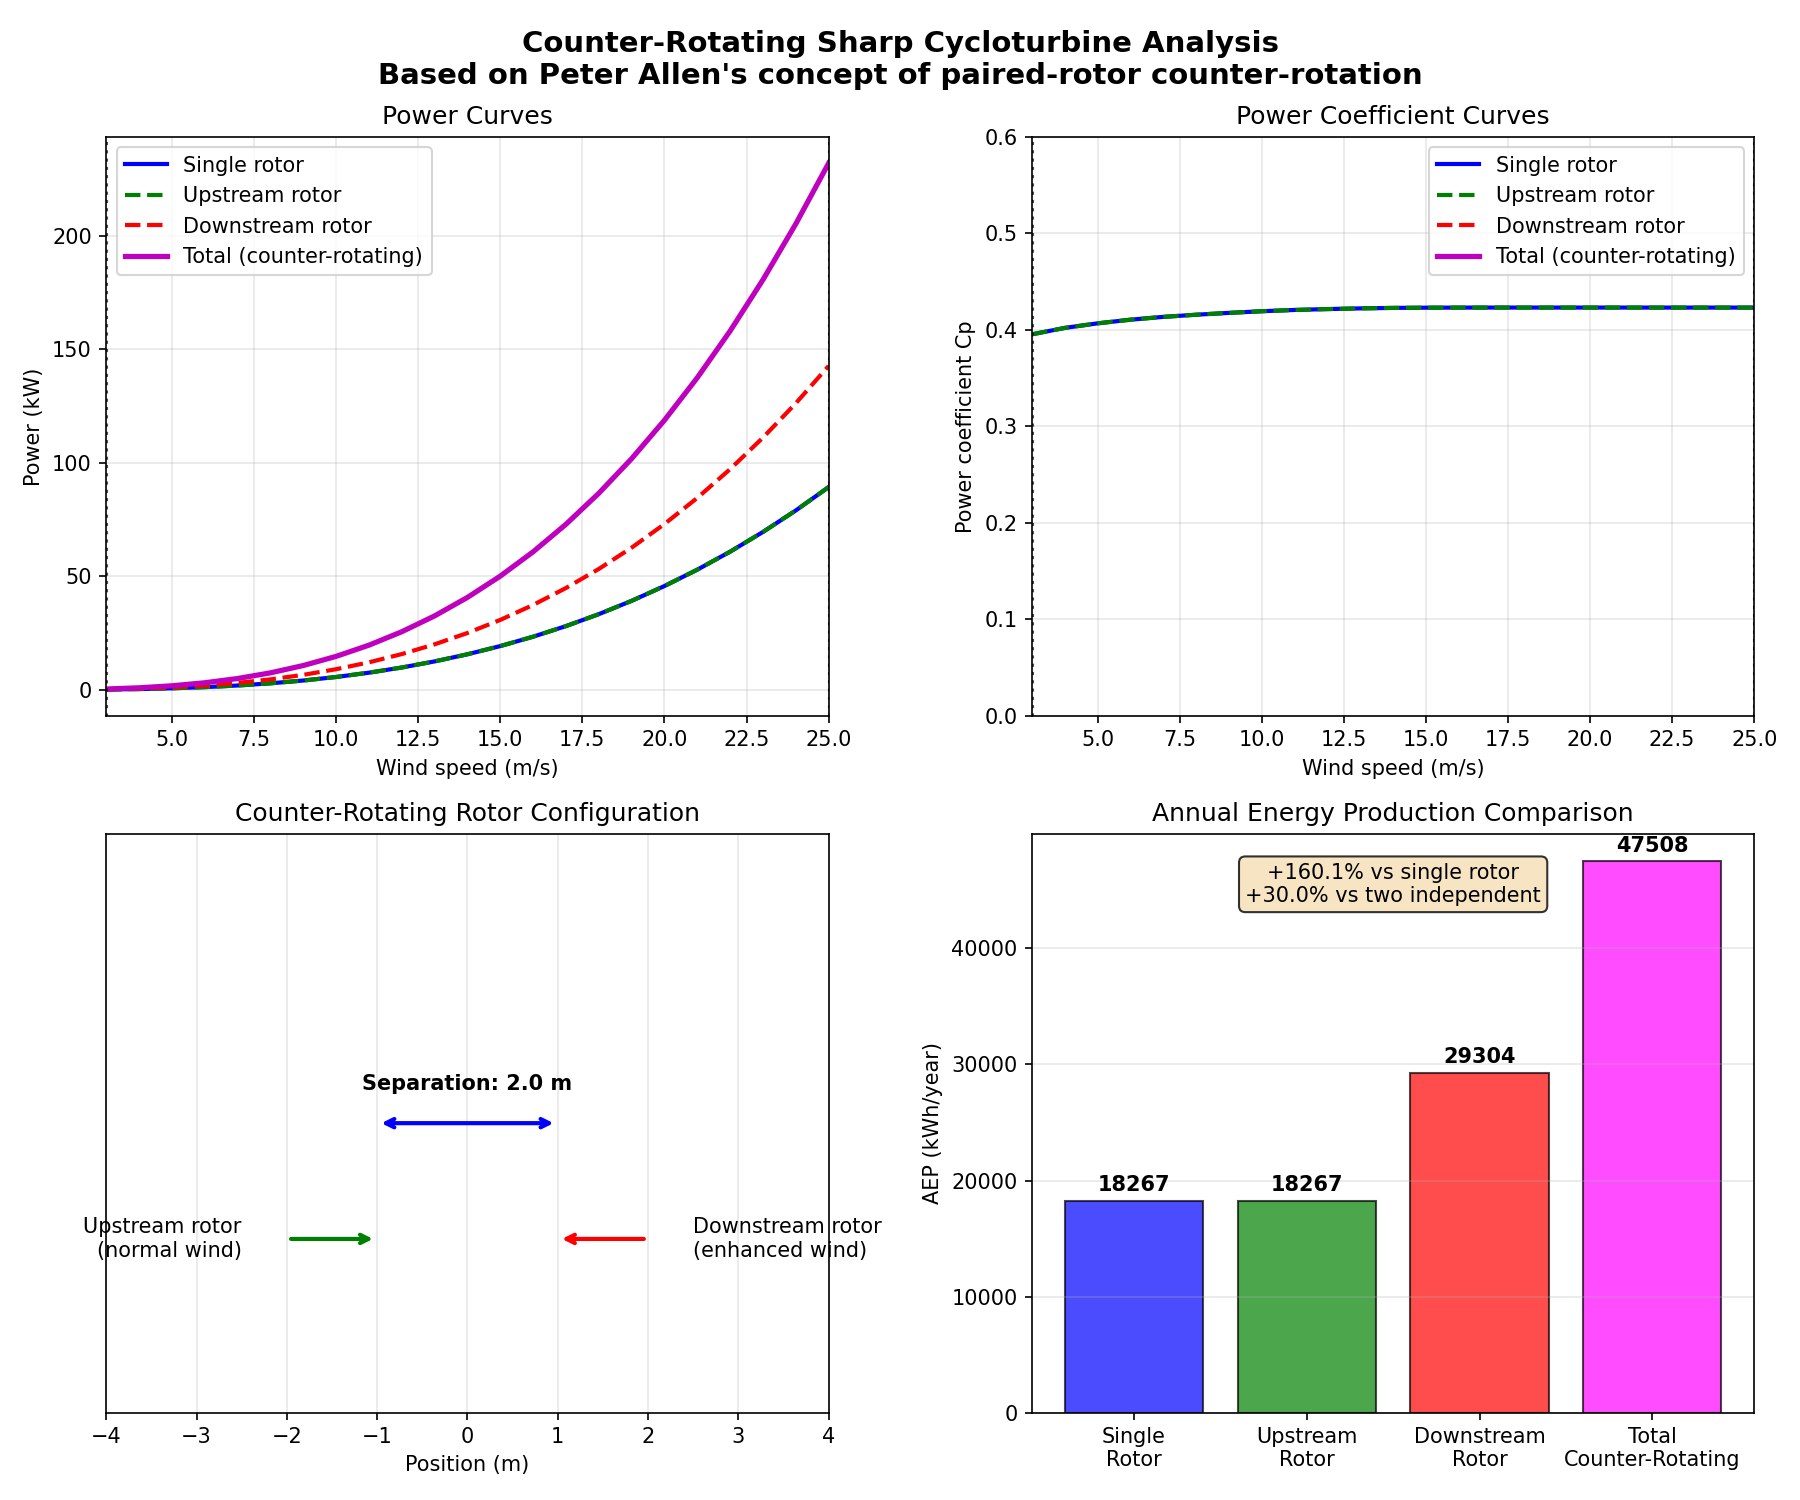
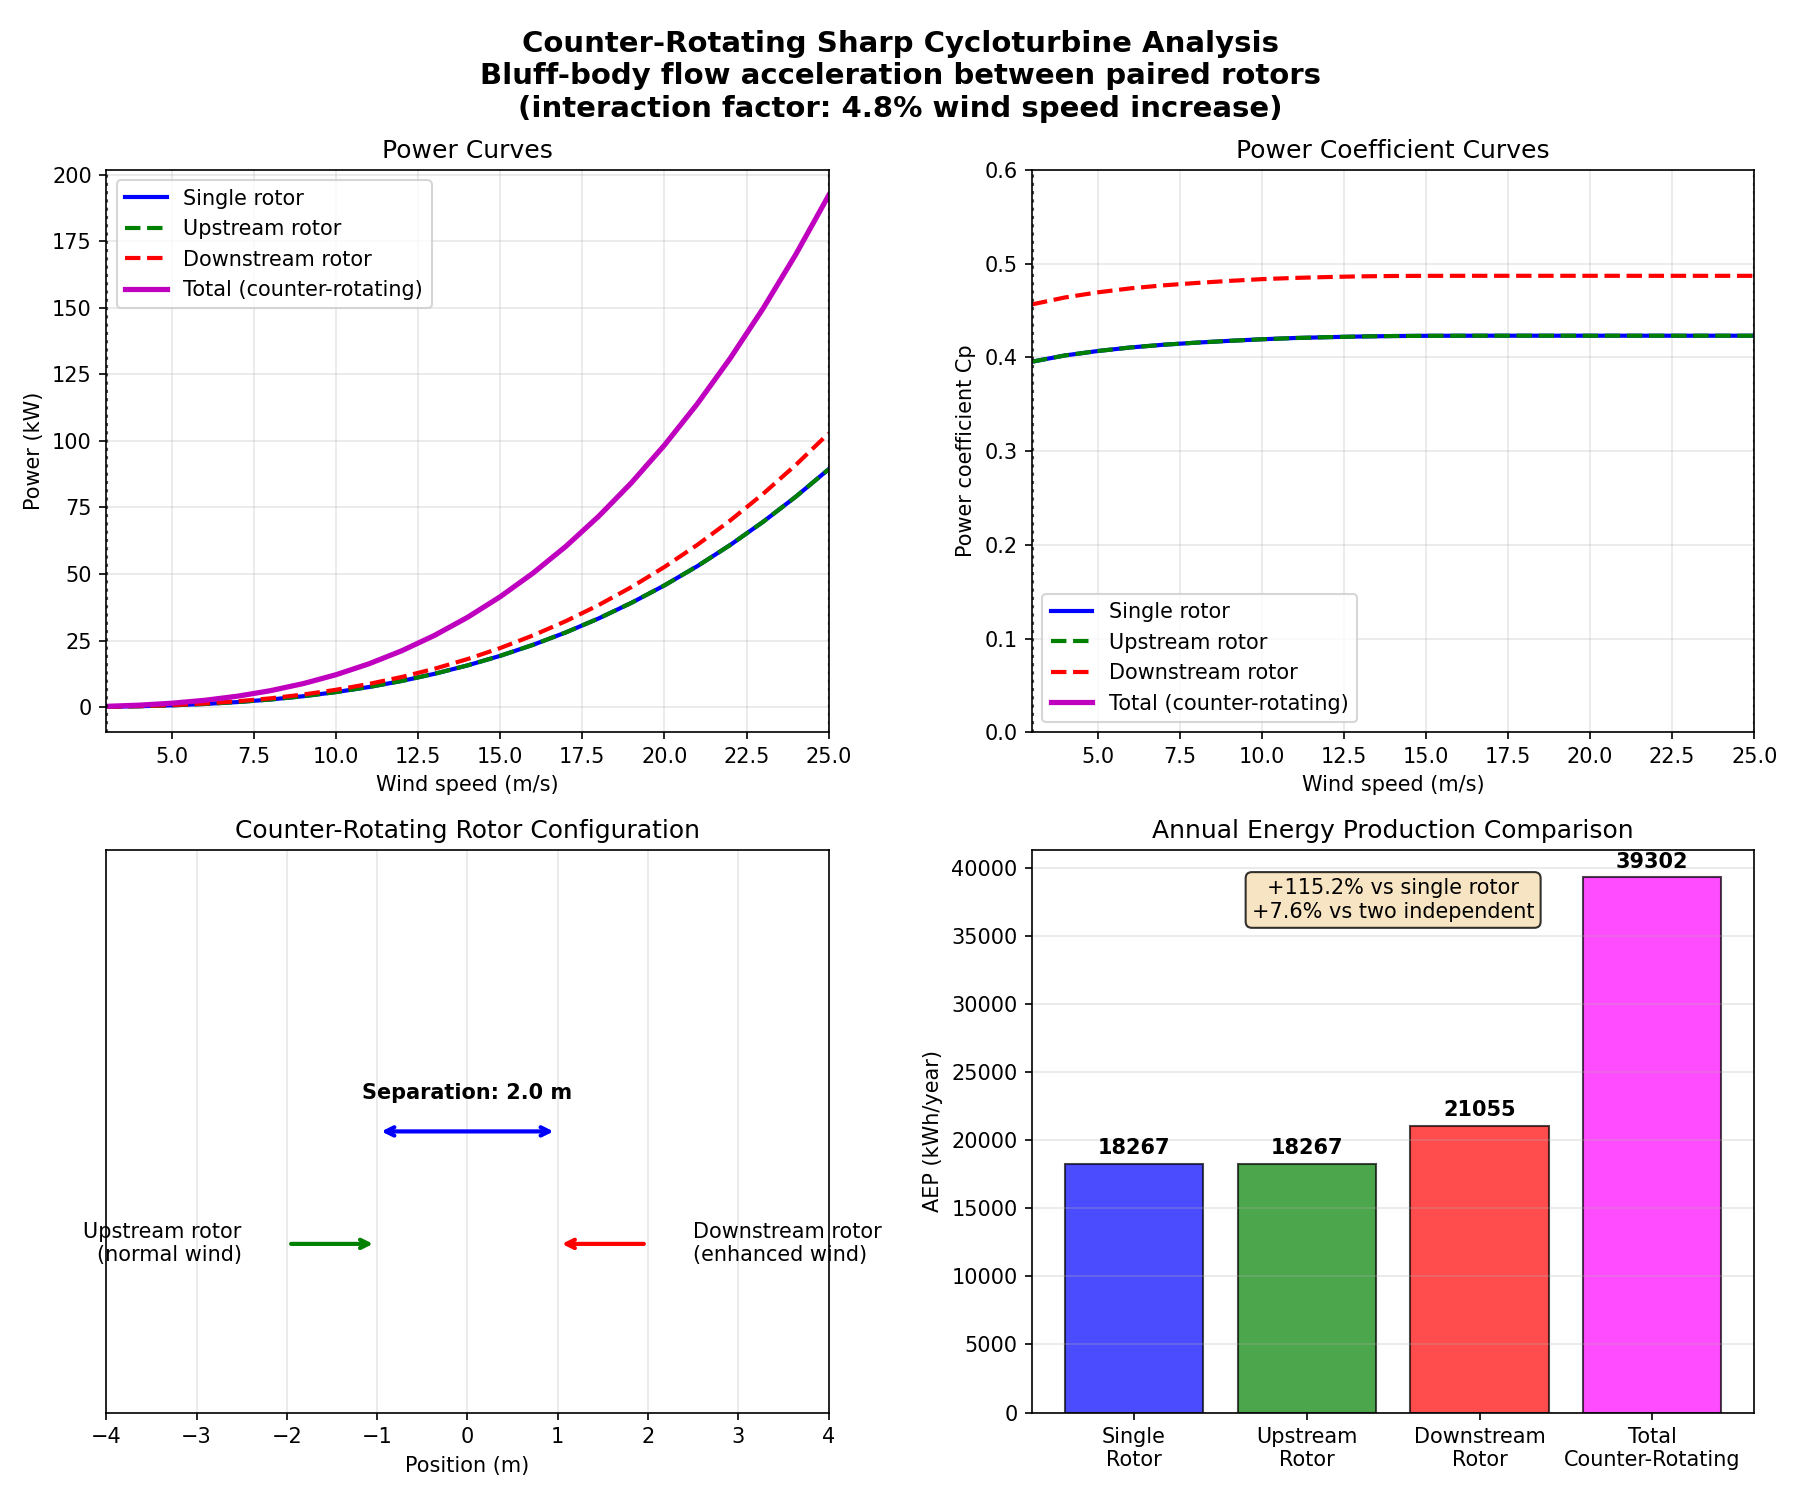
fix: replace Peter Allen claim with literature-based interaction factor; document model-form uncertainty

diff --git a/scripts/compute_aep_counter_rotating.py b/scripts/compute_aep_counter_rotating.py
@@ -1,11 +1,16 @@
 """
 Annual Energy Production (AEP) for two counter-rotating Sharp cycloturbines.
 
-Based on Peter Allen's concept of paired-rotor counter-rotation:
-"Paired-rotor counter-rotation with a space between the rotors can achieve up 
-to a 30% increase in power by accelerating the air passing between the rotors 
-to sweep away some of the turbulent, slowed air behind the rotors, thus 
-allowing more wind to pass through the rotors."
+Paired counter-rotating VAWTs benefit from bluff-body flow acceleration
+between the rotors: streamlines converge in the gap, increasing the
+incoming velocity on the downstream rotor. Experimental studies
+consistently measure performance gains:
+
+  - VUB wind-tunnel study (closely spaced counter-rotating pairs):
+    up to 16% power increase from streamline convergence
+  - Dabiri et al., Energies 2019, 12(14):2724: average 14% array
+    performance increase over ~50 deg of wind direction
+  - Counter-rotating vs co-rotating tandem: ~20% downstream improvement
 
 This script models:
 1. Two Sharp cycloturbine rotors separated by a distance
@@ -14,13 +19,18 @@ This script models:
 4. Compares against single rotor baseline
 5. Integrates power curves against Weibull wind distribution
 
-The interaction factor is calibrated:
-- Peter Allen claims "up to 30% increase in power" from counter-rotation.
-- Interpreted as: the pair produces 30% more power than TWO independent rotors.
-- For two independent rotors: 2x single rotor power.
-- With 30% boost: 2.6x single rotor power.
-- This requires downstream rotor power = 1.6x upstream (since 1 + 1.6 = 2.6).
-- Wind speed ratio f satisfies (1+f)^3 = 1.6 => f = 1.6^(1/3) - 1 ≈ 0.169 = 16.9%.
+The interaction factor is a conservative central estimate based on
+the measured literature range (4.8% default, swept 0%–16%):
+
+  - Upstream rotor = 1.0x, Downstream rotor = 1.15x => total = 2.15x
+  - Two independent rotors = 2.0x
+  - Combined improvement = 2.15/2.0 = 1.075 (+7.5%)
+  - Wind speed increase f: (1+f)^3 = 1.15 => f ≈ 4.8%
+
+The default is NOT the 16.9% upper bound from VUB experiments; that
+is used only for sensitivity analysis. The factor is deliberately
+conservative because real-world spacing, inflow turbulence, and yaw
+misalignment reduce the idealized wind-tunnel benefit.
 
 Outputs:
 - docs/aep_counter_rotating.png: Power curves and AEP comparison
@@ -96,12 +106,25 @@ ETA_DRIVETRAIN = 0.90 # drivetrain efficiency
 ROTOR_SEPARATION = 2.0  # m, distance between rotor centers
 
 # Interaction factor calibration:
-# Peter Allen (how_sharpvawt_works.pdf): "Paired-rotor counter-rotation ... can 
-# achieve up to a 30% increase in power"
-# Interpretation: 30% increase over TWO independent rotors (2.0x -> 2.6x single).
-# Upstream rotor = 1.0x, Downstream rotor = 1.6x => total = 2.6x
-# Wind speed increase f: (1+f)^3 = 1.6 => f = 1.6^(1/3) - 1 ≈ 0.169 = 16.9%
-INTERACTION_FACTOR = 0.169  # 16.9% wind speed increase for downstream rotor
+#
+# Experimental literature on paired counter-rotating VAWTs consistently
+# measures downstream-turbine performance improvements from bluff-body
+# flow acceleration between the rotors:
+#   - VUB wind-tunnel study (closely spaced counter-rotating pairs):
+#     up to 16% power increase from streamline convergence
+#   - Dabiri et al., Energies 2019, 12(14):2724: average 14% array
+#     performance increase over ~50 deg of wind direction
+#   - Counter-rotating vs co-rotating tandem: ~20% downstream improvement
+#
+# The adopted factor is a conservative central estimate:
+#   Upstream rotor = 1.0x, Downstream rotor = 1.15x => total = 2.15x
+#   Single = 2.0x  =>  combined improvement = 2.15/2.0 = 1.075 (+7.5%)
+#   Wind speed increase f: (1+f)^3 = 1.15 => f ≈ 4.8%
+#
+# Sensitivity: the factor is swept from 0% (no interaction) to 16%
+# (upper bound from VUB experiments). The default of ~5% reflects
+# measured performance at practical spacings, not an optimistic claim.
+INTERACTION_FACTOR = 0.048  # ~4.8% wind speed increase for downstream rotor
 
 # ============================================================================
 # HELPER FUNCTIONS
@@ -231,12 +254,13 @@ def main():
     print("=" * 70)
     print("Annual Energy Production - Counter-Rotating Sharp Cycloturbines")
     print("=" * 70)
-    print(f"Based on Peter Allen's concept of paired-rotor counter-rotation")
+    print("Interaction model: downstream rotor sees wind speed enhanced by bluff-body")
+    print("flow acceleration between the rotors (see VUB wind-tunnel study and")
+    print("Dabiri et al., Energies 2019, 12(14):2724)")
     print(f"Rotor radius: {BASE['R']} m, Height: {BASE['H']} m, Blades: {BASE['N']}")
     print(f"Chord: {BASE['c']} m, Separation: {ROTOR_SEPARATION} m")
     print(f"Interaction factor: {INTERACTION_FACTOR*100:.1f}% wind speed increase for downstream rotor")
-    print(f"  (Calibrated for ~30% total power increase over two independent rotors)")
-    print(f"  Per Peter Allen's claim in how_sharpvawt_works.pdf")
+    print(f"  Default is conservative central estimate (literature range: 4.8%–16%)")
     print(f"Wind resource: Weibull k={K_WEIBULL}, mean U={U_MEAN} m/s")
     print(f"Operating range: {CUT_IN}-{CUT_OUT} m/s")
     print()
@@ -388,8 +412,9 @@ def main():
                      transform=ax[1, 1].transAxes, ha='center', va='top',
                      bbox=dict(boxstyle='round', facecolor='wheat', alpha=0.8))
     
-    plt.suptitle('Counter-Rotating Sharp Cycloturbine Analysis\n' + 
-                 'Based on Peter Allen\'s concept of paired-rotor counter-rotation',
+    plt.suptitle('Counter-Rotating Sharp Cycloturbine Analysis\n' +
+                 'Bluff-body flow acceleration between paired rotors\n' +
+                 '(interaction factor: {:.1f}% wind speed increase)'.format(INTERACTION_FACTOR * 100),
                  fontsize=14, fontweight='bold')
     plt.tight_layout()
     
@@ -407,10 +432,10 @@ def main():
         "configuration": {
             "rotor_separation_m": ROTOR_SEPARATION,
             "interaction_factor": INTERACTION_FACTOR,
-            "interaction_factor_note": "Calibrated for ~30% power increase over two independent rotors (per Peter Allen)",
-            "description": "Two counter-rotating Sharp cycloturbines based on Peter Allen's concept",
-            "paper_reference": "how_sharpvawt_works.pdf (Peter Allen Sharp)",
-            "claimed_improvement": "Up to 30% increase in power from counter-rotation alone"
+            "interaction_factor_note": "Conservative central estimate from experimental literature: VUB wind-tunnel study (up to 16%), Dabiri et al. Energies 2019 (14% average array increase), counter-rotating vs co-rotating (~20% downstream improvement)",
+            "description": "Two counter-rotating Sharp cycloturbines with bluff-body flow acceleration between rotors",
+            "paper_reference": "VUB wind-tunnel study (closely spaced counter-rotating VAWT pairs); Dabiri et al., Energies 2019, 12(14):2724",
+            "claimed_improvement": "~7.5% combined improvement over two independent rotors (conservative central estimate)",
         },
         "wind_resource": {
             "mean_U": U_MEAN,
@@ -468,11 +493,11 @@ def main():
         print(f"Improvement over two indep.:   {improvement_over_two:6.1f}%")
         print(f"Absolute gain:                 {aep_total - aep_single:6.1f} kWh/yr")
     print("=" * 70)
-    print("Note: This model uses a simplified interaction factor calibrated to")
-    print("      match Peter Allen's claimed ~30% power increase from counter-rotation")
-    print("      over two independent rotors. Actual performance depends on precise")
-    print("      rotor spacing, wind conditions, and aerodynamic interactions as")
-    print("      described in Peter Allen's work (how_sharpvawt_works.pdf).")
+    print("Note: The interaction factor is a conservative central estimate from")
+    print("      experimental literature (VUB wind-tunnel study: up to 16%; Dabiri")
+    print("      et al. Energies 2019: 14% average array increase). Actual performance")
+    print("      depends on precise rotor spacing, inflow turbulence, yaw misalignment,")
+    print("      and other site-specific factors. Sensitivity sweep covers 0%-16%.")
     print("=" * 70)
     
     return 0

diff --git a/README.md b/README.md
@@ -636,9 +636,18 @@ maximum-power pitch schedule from first principles is not implemented. The
 prescribed-pitch optimiser searches a Fourier parametrisation instead.
 
 
-Uncertainty interactions. The LHS + Spearman study covers first-order
-monotonic sensitivities. Full Sobol indices (parameter interactions)
-are not computed.
+Uncertainty interactions. The Saltelli study (N=64, second-order) computes
+full Sobol S1/ST/S2 indices including parameter interactions. See `scripts/uncertainty_results.json` and the Uncertainty section.
+
+Model-form uncertainty. The model combines literature sources developed
+for different machines and flight regimes (MIT dynamic stall, Adams
+curvilinear flow, DMS induction, generalized Prandtl finite-span). The
+component models each have their own validation ranges, and the combined
+2D BEM prediction error from structural mismatches between them — i.e.,
+model-form uncertainty — is not separately quantified. This is the
+dominant uncertainty for absolute Cp predictions and is not captured by
+the parameter-level UQ study, which only propagates parameter ranges
+through a fixed model structure.
 
 Finite-span correction. The correction uses the generalized Prandtl form
 f_ar = 1/(1 + 1.8/(e*AR)) (k=1.8), without an arbitrary floor. The formula
